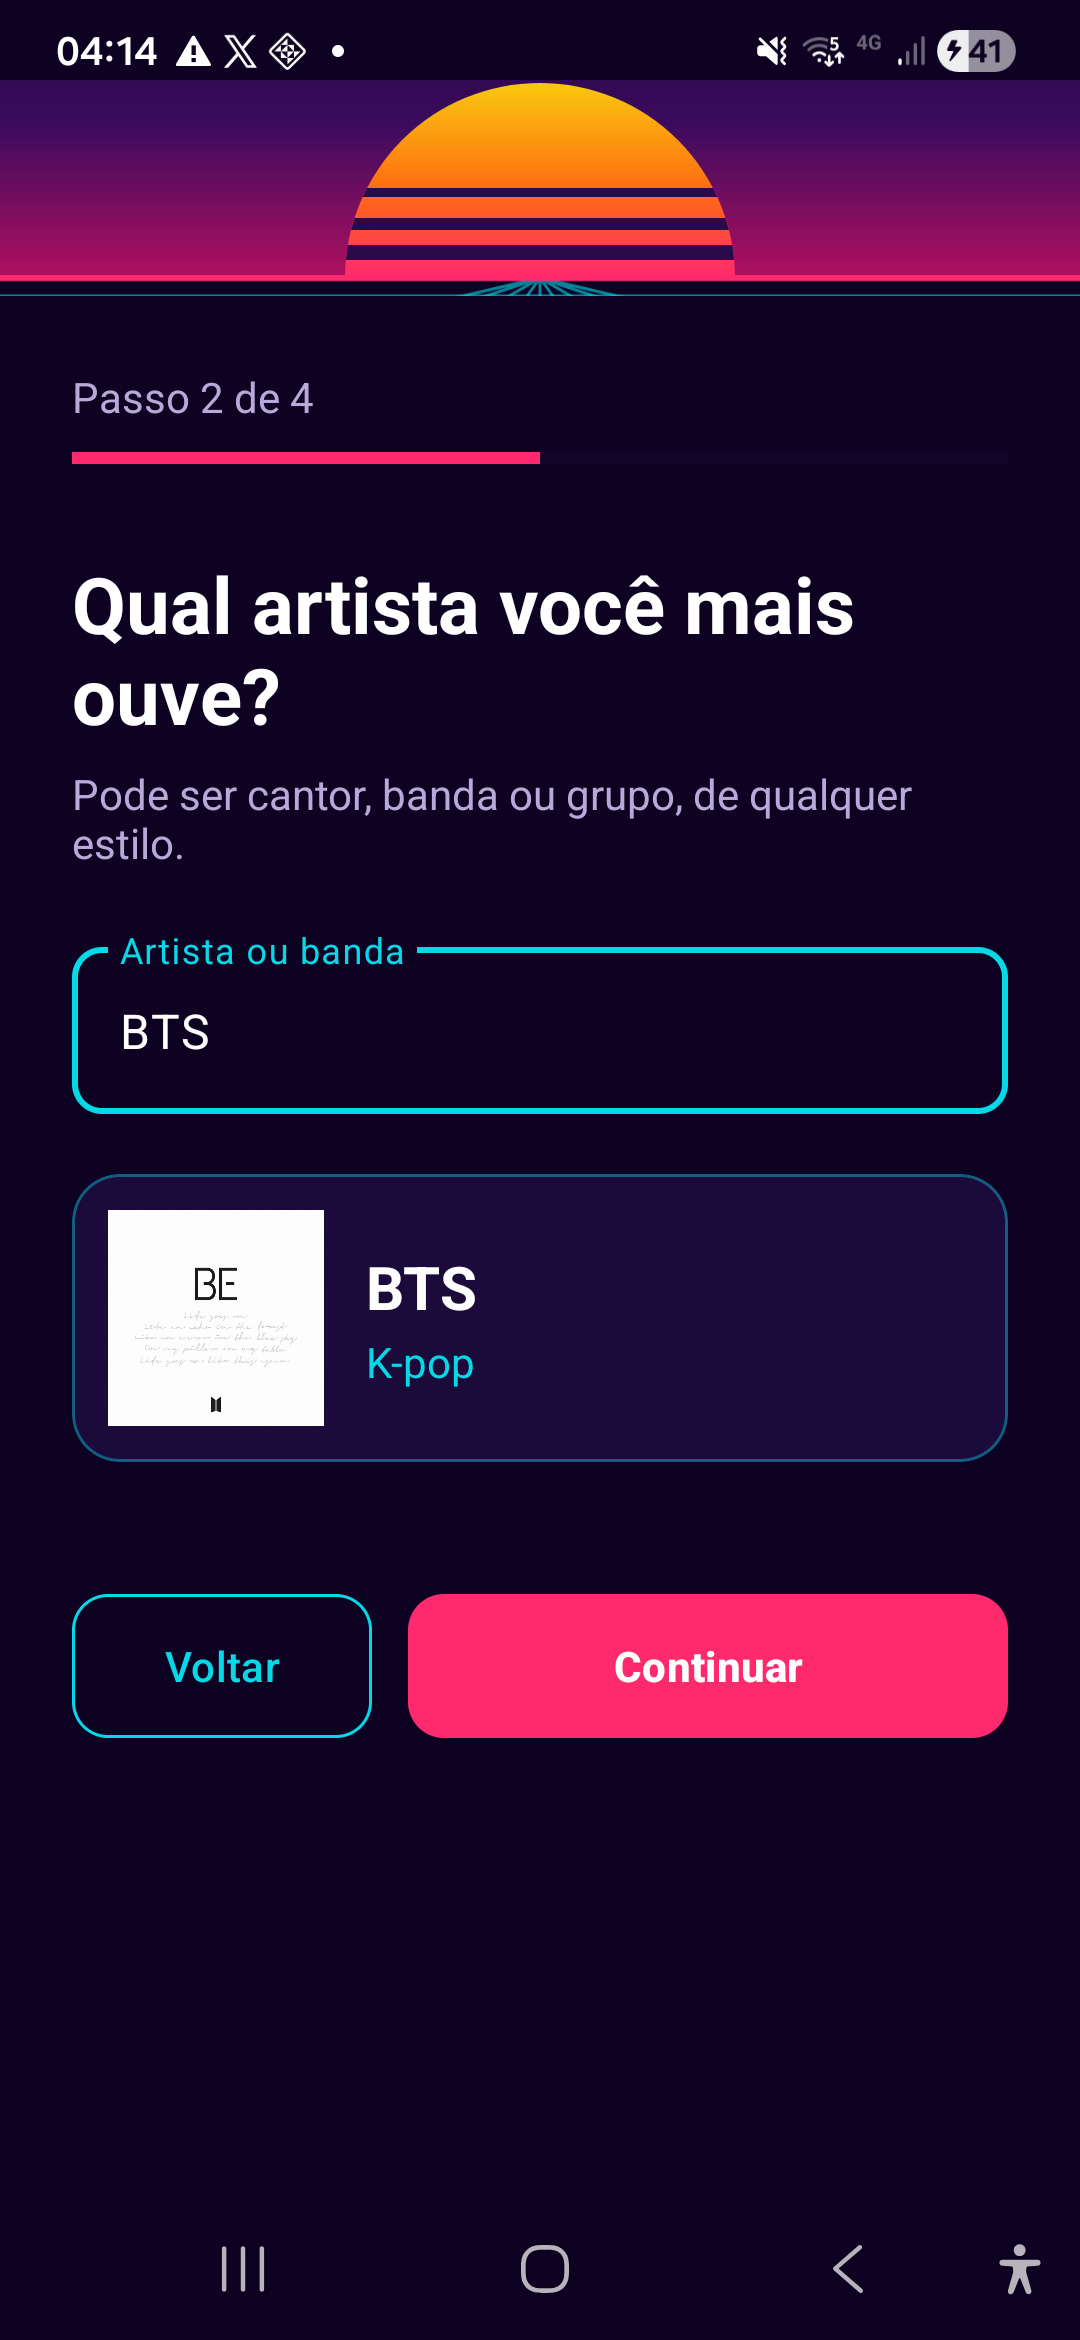
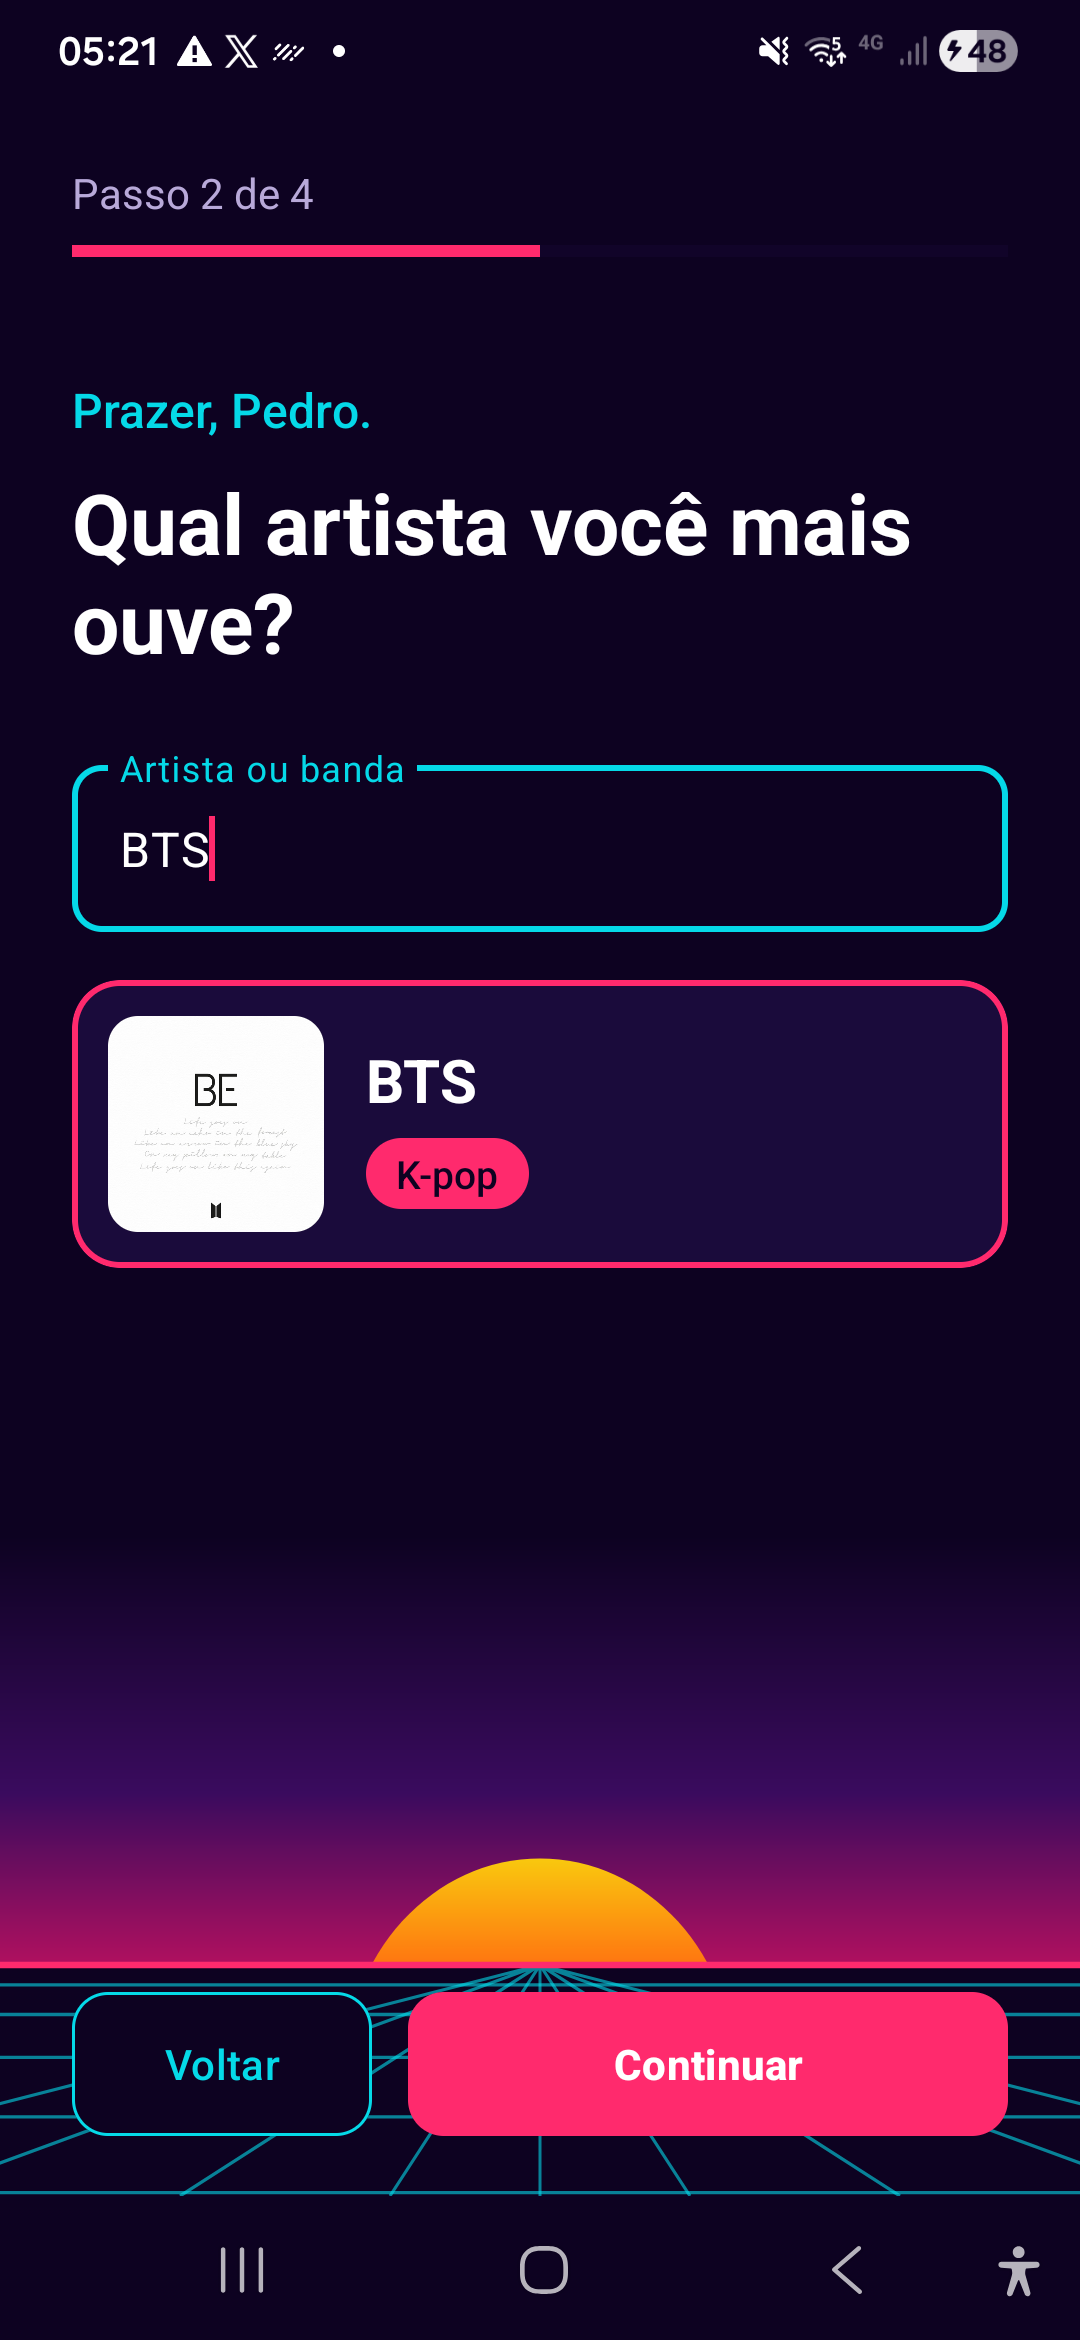
docs: prints e textos do README e do guia com o visual novo
- 6 prints novos tirados no celular (Início, Perfil, Quiz, Resultado, Histórico)
- README e GUIA_APRESENTACAO descrevem o Perfil com o pôr do sol,
  o Histórico em lista (coração e lixeira) e o CoverRepository
- Status do CLAUDE.md atualizado

diff --git a/CLAUDE.md b/CLAUDE.md
@@ -165,10 +165,10 @@ Código copiado da internet ou de colegas leva nota zero, e eu preciso demonstra
 
 ### Ainda a decidir com o estudante (próximos passos, nesta ordem)
 1. **Perguntas do quiz: o estudante ainda acha genéricas.** Ideia escolhida por ele: a **1ª pergunta usa músicas reais do artista favorito** ("Qual dessas do BTS você mais ouve?"; a mesma busca do iTunes com `limit=25` filtrada pelo artista devolve as mais conhecidas, com ano e gênero). Ele quer que **a música escolhida influencie a recomendação, mas NÃO pelo ano**. Também **não gostou** da proposta "O que mais te prende em Dynamite? voz/batida/guitarra/baixo/teclados". Ainda é preciso propor outra forma, e conversar antes de programar.
-2. **Design:** o estudante sente que o design ainda não chegou no que ele quer. Trabalhar **uma tela por vez**, com print (`adb screencap`) e opções visuais antes de mexer.
+2. ✅ **Design (16/11):** A) synthwave contido (Monoton só na Main, títulos sans-serif-black + `HorizonLine` em degradê, cards sem contorno); B) Histórico como lista de músicas (capa do iTunes via `network/CoverRepository`, coração = PUT, lixeira = DELETE); C) Perfil novo (céu/sol/chão no rodapé com os botões por cima, sol sobe a cada passo em `moveSun`, frase `tvLead` com a resposta anterior, card do artista na cor do gênero). Prints e README/guia atualizados.
 3. ✅ README e `GUIA_APRESENTACAO.md` atualizados para gêneros/votação/% de match (16/11), com 6 prints em `docs/screenshots/` tirados no celular. `LEIA-ME.txt` apagado.
 4. ✅ Commit e push da reforma e da documentação (repositório público). API publicada no Render em 16/11 e app apontando para ela.
-5. Mockup do novo Perfil (botões fixos embaixo, sol + grade no rodapé subindo a cada passo, frase que usa a resposta anterior: "Prazer, Pedro."): https://claude.ai/artifact/B7KUviGeVDxj1Vw9NfRrFj (passos 1–3 prontos, falta o 4). Retomar depois da entrega.
+5. ✅ Mockup do novo Perfil (https://claude.ai/artifact/B7KUviGeVDxj1Vw9NfRrFj) implementado.
 6. Notado e não corrigido: o quiz mostra "Passo 2 de 2" (o perfil agora tem 4 passos); no Resultado, "outros estilos" pode repetir o próprio perfil vencedor.
 - Adiado: Top 3 músicas favoritas, swipe estilo Tinder.
 
@@ -179,4 +179,5 @@ Código copiado da internet ou de colegas leva nota zero, e eu preciso demonstra
 3. ✅ Lógica de recomendação + SoundQuizActivity + ResultActivity + testes
 4. ✅ Retrofit (POST/GET/PUT/DELETE) + HistoryActivity/HistoryAdapter com AlertDialog
 5. ✅ README.md + GUIA_APRESENTACAO.md (atualizados em 16/11)
-6. ✅ Reforma de 16/11 (gêneros + votação + % de match + perfil em passos + Curti/Não curti) com commit, build e testes passando. Pendentes: push, perguntas do quiz e design.
+7. ✅ Redesign A/B/C (synthwave contido, Histórico em lista, Perfil com pôr do sol) com prints novos e push.
+6. ✅ Reforma de 16/11 (gêneros + votação + % de match + perfil em passos + Curti/Não curti) com commit, build e testes passando. Pendentes: perguntas do quiz.

diff --git a/README.md b/README.md
@@ -49,10 +49,10 @@ MainActivity ──► UserProfileActivity ──► SoundQuizActivity ──►
 | # | Activity | O que faz | Views principais |
 |---|---|---|---|
 | 1 | `MainActivity` | Tela inicial: o disco de vinil nasce no horizonte e gira, e o título neon pulsa | ImageView, TextView, Button |
-| 2 | `UserProfileActivity` | Perfil em formato de conversa, uma pergunta por vez, em 4 passos: nome, artista favorito (buscado no iTunes e mostrado num card com capa e gênero), quando mais ouve música e instrumento. Tem "Passo X de 4", barra de progresso e Voltar / Continuar | EditText, Button, CheckBox (Chip), CardView, ImageView, ProgressBar |
+| 2 | `UserProfileActivity` | Perfil em formato de conversa, uma pergunta por vez, em 4 passos: nome, artista favorito (buscado no iTunes e mostrado num card com capa e gênero), quando mais ouve música e instrumento. Uma frase usa a resposta anterior ("Prazer, Pedro."), e no rodapé o sol sobe a cada passo. Tem "Passo X de 4", barra de progresso e Voltar / Continuar | EditText, Button, CheckBox (Chip), CardView, ImageView, ProgressBar |
 | 3 | `SoundQuizActivity` | 3 perguntas com 5 opções cada, uma por perfil. A 1ª cita a situação escolhida e a 2ª cita o artista favorito. Depois vêm os "outros estilos que você curte". A barra avança a cada resposta | RadioButton, CheckBox, CardView, ProgressBar |
 | 4 | `ResultActivity` | Estilo "tocando agora": capa do álbum, música, perfil com a cor do gênero, % de match e explicação. Curti / Não curti salva na API; abre no Spotify ou no YouTube e compartilha | ImageView, CardView, ProgressBar, Button |
-| 5 | `HistoryActivity` | Lista as descobertas salvas, com a faixa na cor do perfil. Permite mudar a avaliação (PUT) e excluir, com confirmação em AlertDialog (DELETE) | RecyclerView, CardView, ProgressBar |
+| 5 | `HistoryActivity` | Lista de músicas salvas, cada uma com a capa (buscada no iTunes) contornada na cor do perfil. O coração muda a avaliação (PUT) e a lixeira exclui, com confirmação em AlertDialog (DELETE) | RecyclerView, CardView, ProgressBar |
 
 **9 tipos de Views usados** (o edital exige 6): TextView, EditText, Button, ImageView, CheckBox (e Chip, que é um CheckBox), RadioButton, RecyclerView, ProgressBar e CardView.
 
@@ -73,7 +73,7 @@ MainActivity ──► UserProfileActivity ──► SoundQuizActivity ──►
 
 **Identidade visual:** "Neon Miami / synthwave anos 80".
 - Tema escuro, com magenta `#FF2A6D` e ciano `#05D9E8`.
-- Fonte retrô **Monoton** (licença OFL) nos títulos.
+- Fonte retrô **Monoton** (licença OFL) no título da tela inicial; nas outras telas, títulos limpos com uma linha em degradê magenta → ciano.
 - Sol listrado, grade e disco de vinil desenhados em Vector Drawable.
 - Cada perfil tem a sua cor: pop magenta, rock laranja, hip-hop amarelo, eletrônica ciano e brasileira verde.
 
